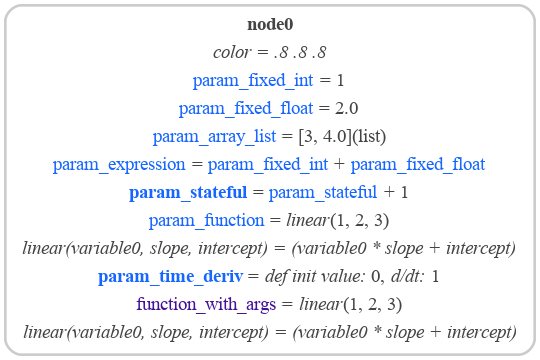
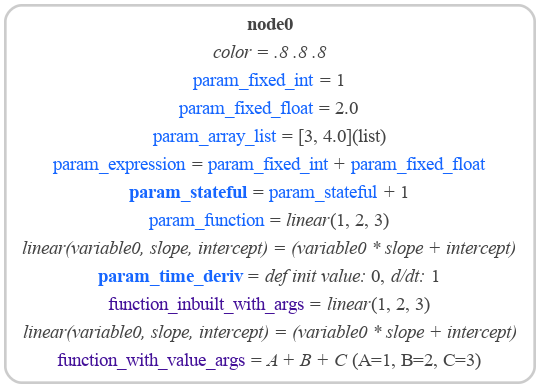
Add example function_with_value_args

Changed region(s): [[0.0296, 0.1222, 0.9778, 0.9778], [0.4444, 0.0306, 0.5333, 0.0917]]

diff --git a/src/modeci_mdf/interfaces/graphviz/exporter.py b/src/modeci_mdf/interfaces/graphviz/exporter.py
@@ -254,28 +254,46 @@ def mdf_to_graphviz(
 
             if node.functions and len(node.functions) > 0:
                 for f in node.functions:
-                    argstr = (
-                        ", ".join([match_in_expr(str(f.args[a]), node) for a in f.args])
-                        if f.args
-                        else "???"
-                    )
-                    info += "<tr><td>{}{} = {}({})</td></tr>".format(
-                        format_label("FUNC"),
-                        format_function(f.id),
-                        format_standard_func(f.function),
-                        argstr,
-                    )
-                    if level >= LEVEL_3:
-                        func_info = mdf_functions[f.function]
-                        info += '<tr><td colspan="2">%s</td></tr>' % (
-                            format_standard_func_long(
-                                "%s(%s) = %s"
-                                % (
-                                    f.function,
-                                    ", ".join([a for a in f.args]),
-                                    func_info["expression_string"],
+                    if f.function is not None:
+                        argstr = (
+                            ", ".join(
+                                [match_in_expr(str(f.args[a]), node) for a in f.args]
+                            )
+                            if f.args
+                            else "???"
+                        )
+                        info += "<tr><td>{}{} = {}({})</td></tr>".format(
+                            format_label("FUNC"),
+                            format_function(f.id),
+                            format_standard_func(f.function),
+                            argstr,
+                        )
+                        if level >= LEVEL_3:
+                            func_info = mdf_functions[f.function]
+                            info += '<tr><td colspan="2">%s</td></tr>' % (
+                                format_standard_func_long(
+                                    "%s(%s) = %s"
+                                    % (
+                                        f.function,
+                                        ", ".join([a for a in f.args]),
+                                        func_info["expression_string"],
+                                    )
                                 )
                             )
+                    elif f.value is not None:
+                        argstr = "("
+                        if f.args:
+                            for a in f.args:
+                                argstr += "%s=%s, " % (a, f.args[a])
+                        else:
+                            argstr += " - no args -  "
+                        argstr = argstr[:-2] + ")"
+
+                        info += "<tr><td>{}{} = {} {}</td></tr>".format(
+                            format_label("FUNC"),
+                            format_function(f.id),
+                            format_standard_func(f.value),
+                            argstr,
                         )
             if mdf_graph.conditions and mdf_graph.conditions.node_specific:
                 ns = mdf_graph.conditions.node_specific[node.id]

diff --git a/examples/MDF/params_funcs.py b/examples/MDF/params_funcs.py
@@ -20,7 +20,6 @@ def main():
         Parameter(
             id="param_fixed_int",
             value=1,
-            metadata={"description": "A fixed integer value"},
         )
     )
     node0.parameters.append(Parameter(id="param_fixed_float", value=2.0))
@@ -30,16 +29,36 @@ def main():
     )
     node0.parameters.append(Parameter(id="param_stateful", value="param_stateful + 1"))
 
-    f1 = Parameter(
+    param_func1 = Parameter(
         id="param_function",
         function="linear",
         args={"variable0": 1, "slope": 2, "intercept": 3},
     )
-    node0.parameters.append(f1)
+    node0.parameters.append(param_func1)
 
     node0.parameters.append(
         Parameter(id="param_time_deriv", default_initial_value=0, time_derivative="1")
     )
+
+    func_func1 = Function(
+        id="function_inbuilt_with_args",
+        function="linear",
+        args={"variable0": 1, "slope": 2, "intercept": 3},
+    )
+    node0.functions.append(func_func1)
+
+    func_func1 = Function(
+        id="function_with_value_args",
+        value="A + B + C",
+        args={"A": 1, "B": 2, "C": 3},
+    )
+    node0.functions.append(func_func1)
+
+    func_func2 = Function(
+        id="function_with_deep_args",
+        function="linear",
+    )
+    # node0.functions.append(func_func2)
 
     mod_graph.nodes.append(node0)
 

diff --git a/src/modeci_mdf/mdf.py b/src/modeci_mdf/mdf.py
@@ -205,7 +205,7 @@ class Parameter(MdfBase):
         """
         Short summary of Parameter...
         """
-        info = "Parameter: %s = %s (stateful: %s)" % (
+        info = "Parameter: {} = {} (stateful: {})".format(
             self.id,
             self.value,
             self.is_stateful(),
